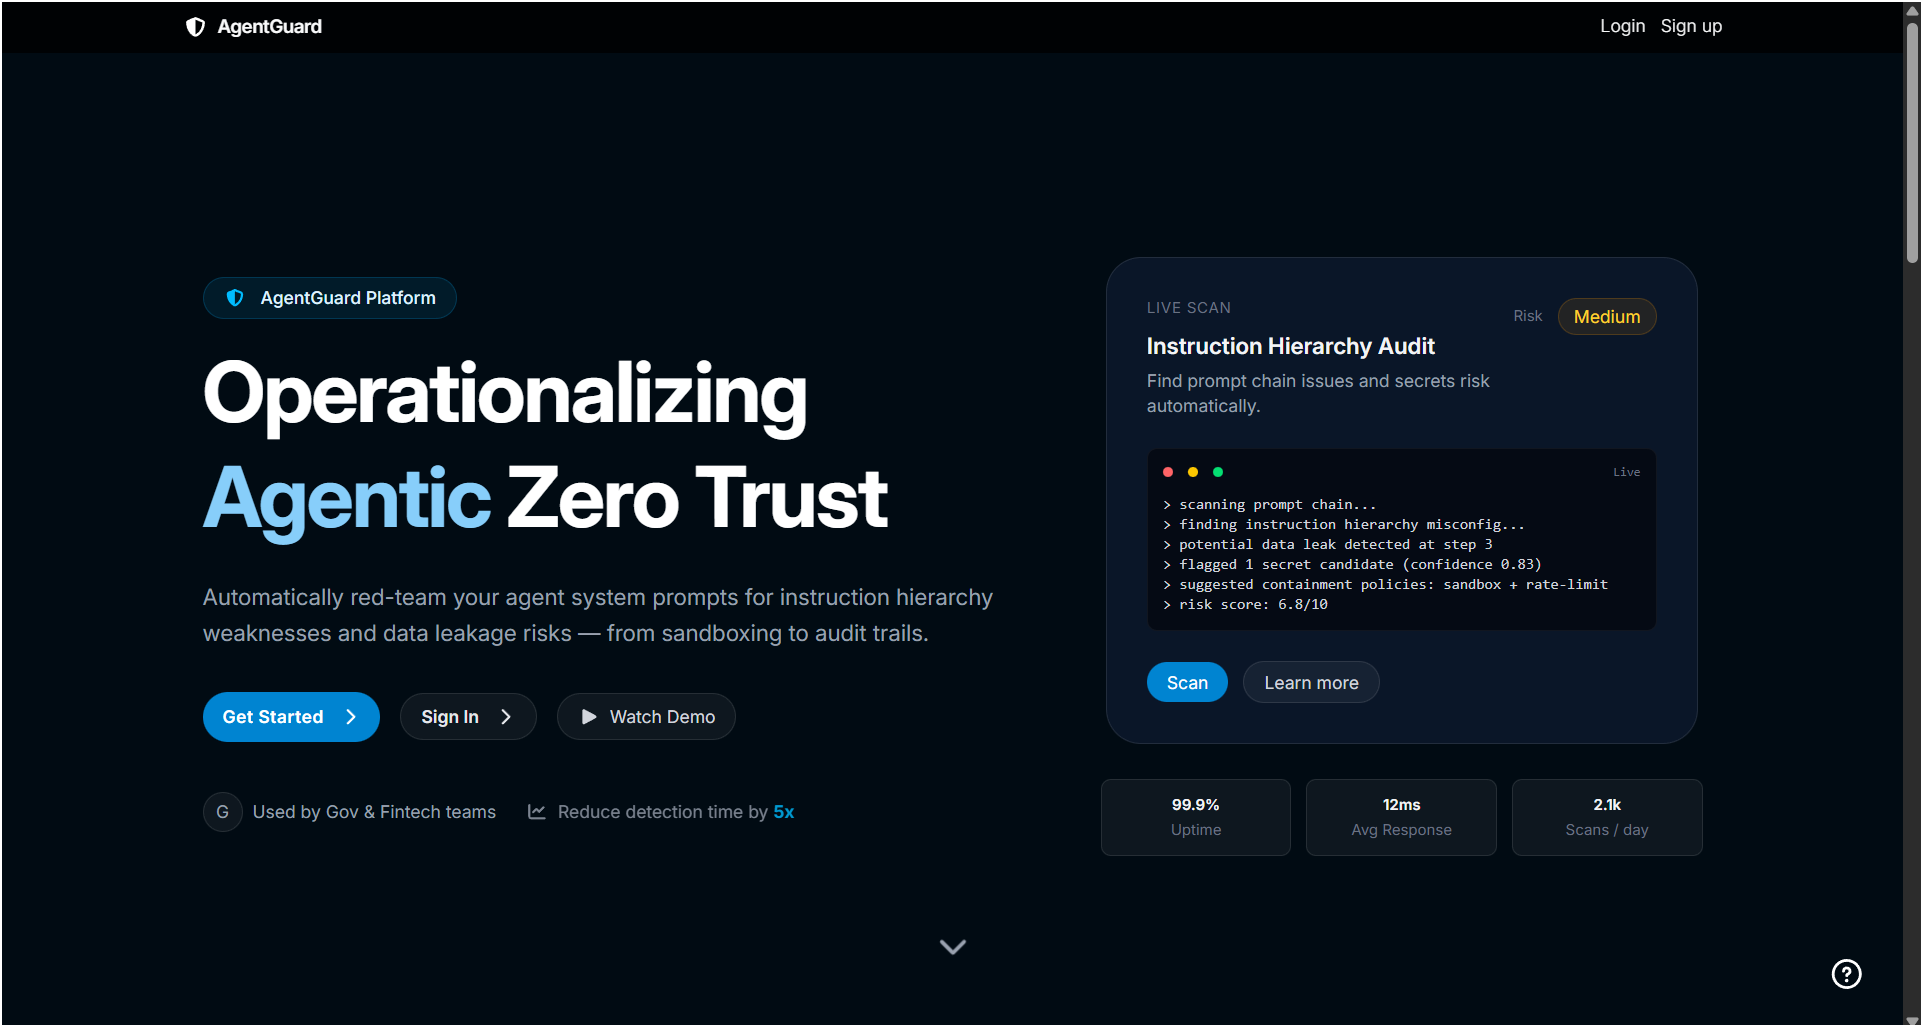
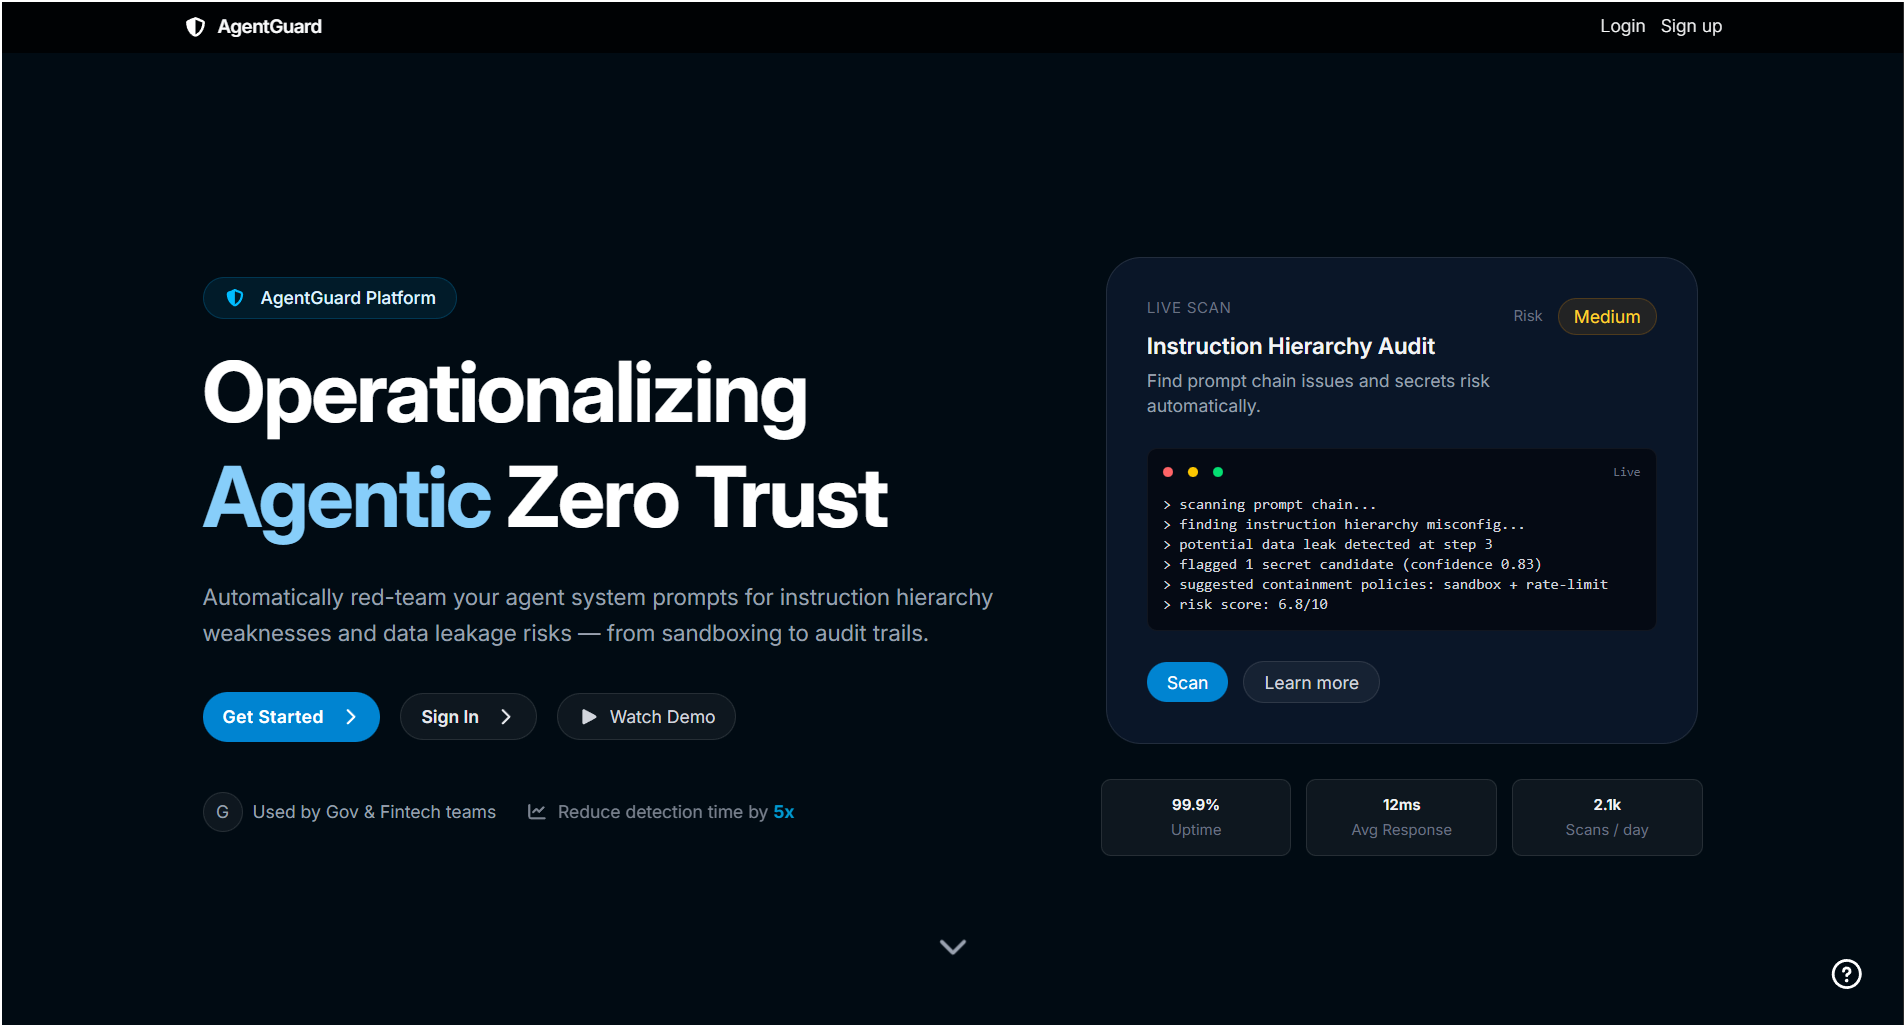
fix: update video source for project detail component

diff --git a/portfolio/src/components/ProjectDetail.tsx b/portfolio/src/components/ProjectDetail.tsx
@@ -57,7 +57,7 @@ export const ProjectDetail: React.FC<ProjectDetailProps> = ({ project, onClose }
         <div className="relative w-full h-[60vh] md:h-[70vh] z-10">
             {project.id === '3' ? (
                 <video
-                    src="/videos/Clinix.mp4"
+                    src="/videos/ClinixHome.mp4"
                     autoPlay
                     loop
                     muted
